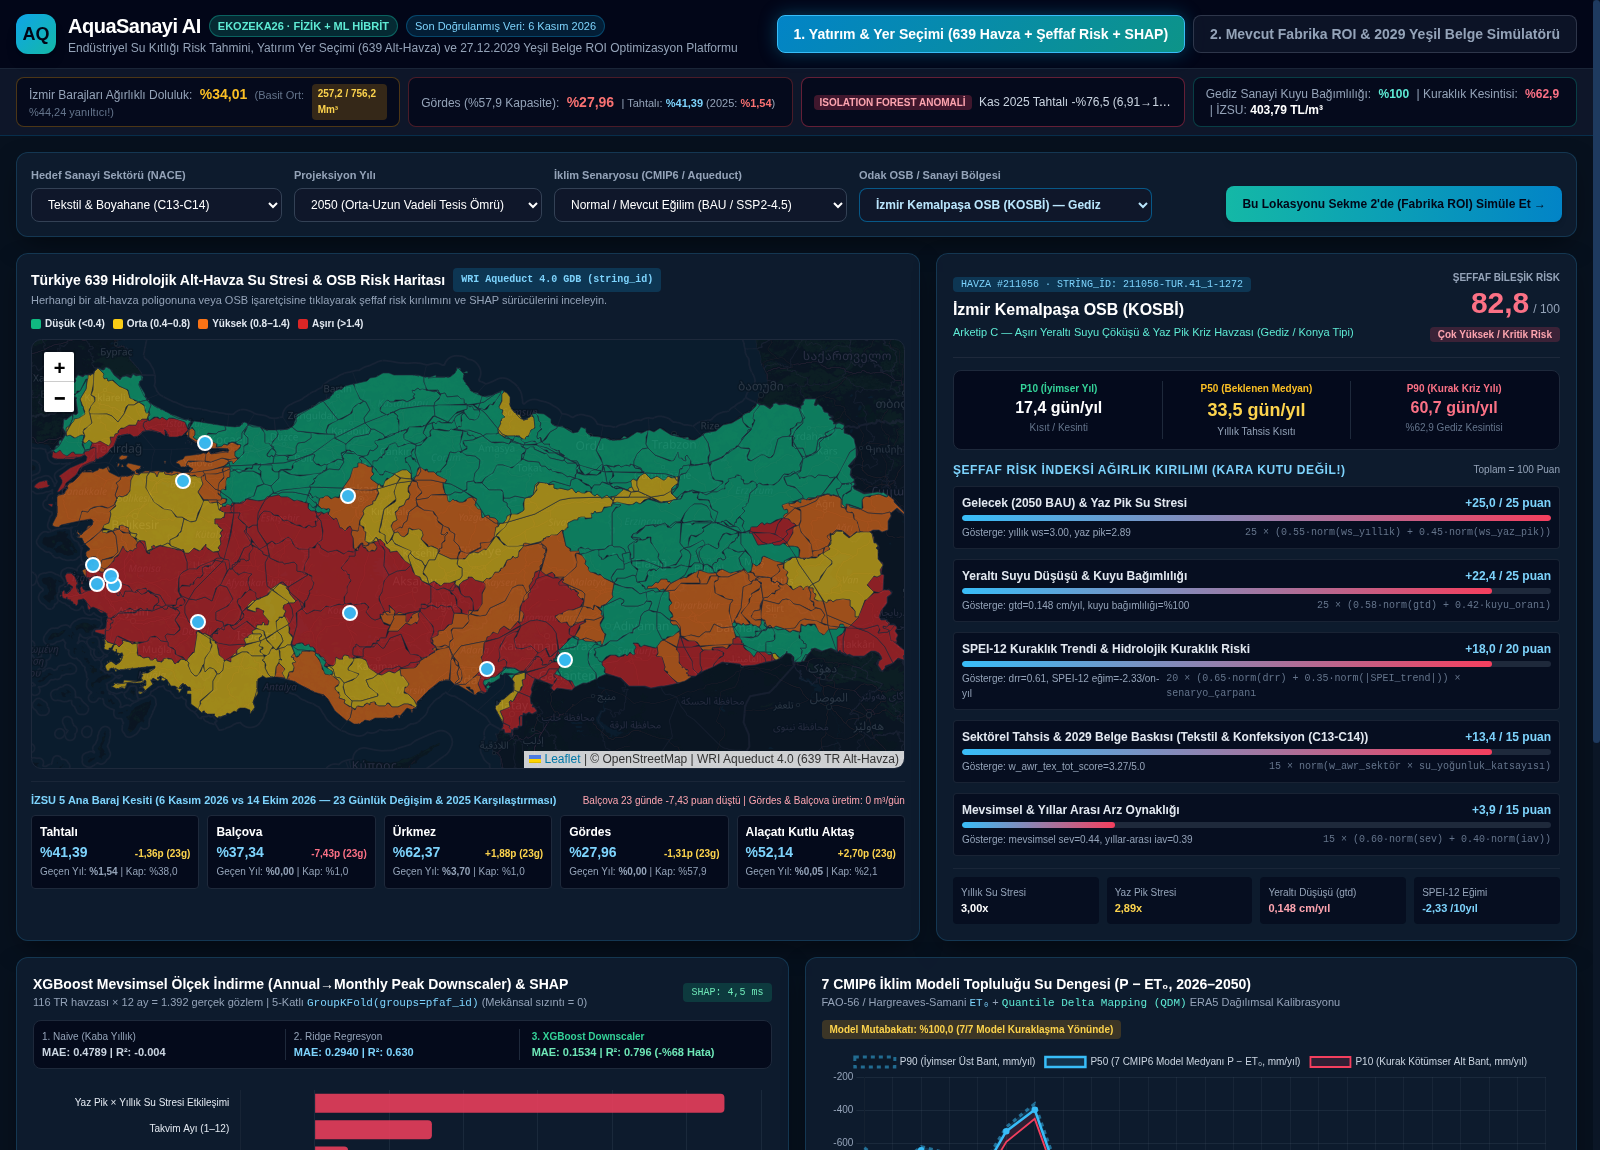
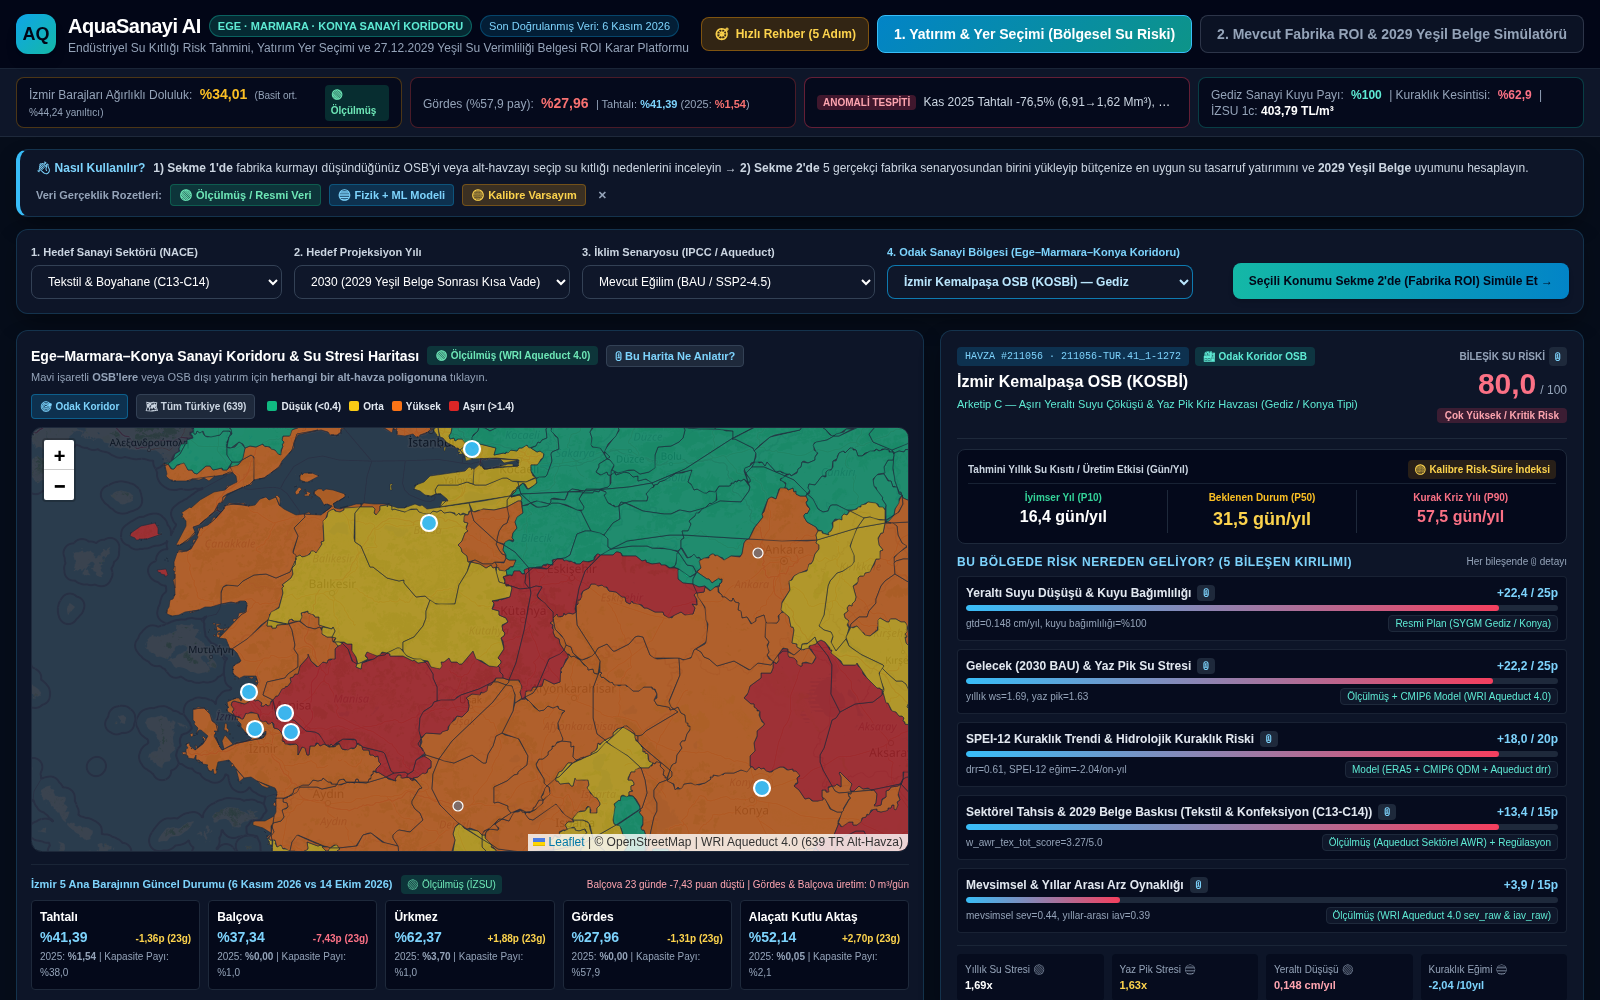
fix(api,ml): restore basin string_id in OSB rankings, isolate test metrics writes, refresh demo screenshots

diff --git a/src/ekozeka26/ml_engine.py b/src/ekozeka26/ml_engine.py
@@ -332,11 +332,14 @@ def fit_kmeans_basin_archetypes() -> dict[str, Any]:
     }
 
 
-def train_and_evaluate_models() -> dict[str, Any]:
+def train_and_evaluate_models(persist: bool = True) -> dict[str, Any]:
     """
     1.392 havza-ay satırı üzerinde 5-katlı `GroupKFold(n_splits=5, groups=pfaf_id)` ile
     Naive (Kaba Yıllık), Ridge Doğrusal Regresyon ve XGBoost Downscaler modellerini
     karşılaştırır, tam modeli kaydeder, SHAP değerlerini ve Gediz hidrolojik backtest'ini üretir.
+
+    `persist=False` yalnızca testlerde kullanılır: SHAP gecikmesi gibi ölçüm değerleri her
+    koşuda milisaniye düzeyinde değiştiği için repodaki `model_metrics.json` kirlenmez.
     """
     global _MODEL_CACHE, _EXPLAINER_CACHE
     PROCESSED_DIR.mkdir(parents=True, exist_ok=True)
@@ -465,9 +468,10 @@ def train_and_evaluate_models() -> dict[str, Any]:
         "kmeans_basin_archetypes": archetypes_res,
     }
 
-    (PROCESSED_DIR / "model_metrics.json").write_text(
-        json.dumps(metrics_payload, ensure_ascii=False, indent=2), encoding="utf-8"
-    )
+    if persist:
+        (PROCESSED_DIR / "model_metrics.json").write_text(
+            json.dumps(metrics_payload, ensure_ascii=False, indent=2), encoding="utf-8"
+        )
     return metrics_payload
 
 

diff --git a/src/ekozeka26/risk_index.py b/src/ekozeka26/risk_index.py
@@ -349,7 +349,12 @@ def compare_candidate_osbs(
             continue
         o_info = all_osbs[oid]
         sid = o_info["string_id"]
-        basin_row = df_basins.loc[sid].to_dict() if sid in df_basins.index else o_info
+        if sid in df_basins.index:
+            basin_row = df_basins.loc[sid].to_dict()
+            # set_index("string_id") sonrası to_dict() indeksi düşürür; kimliği geri ekle.
+            basin_row["string_id"] = sid
+        else:
+            basin_row = o_info
 
         c_proj = climate_meta.get(oid, {}).get("scenarios", {}).get(scenario.upper(), {})
         decadal_wb_trend = float(c_proj.get("decadal_trend_mm", -32.0))

diff --git a/src/ekozeka26/roi_optimizer.py b/src/ekozeka26/roi_optimizer.py
@@ -335,7 +335,12 @@ def optimize_facility_roi(
         gw_dep_input: float | None = None
     else:
         sid = osb_info["string_id"]
-        basin_row = df_basins.loc[sid].to_dict() if sid in df_basins.index else osb_info
+        if sid in df_basins.index:
+            basin_row = df_basins.loc[sid].to_dict()
+            # set_index("string_id") sonrası to_dict() indeksi düşürür; kimliği geri ekle.
+            basin_row["string_id"] = sid
+        else:
+            basin_row = osb_info
         gw_dep_input = float(osb_info["groundwater_dependency_pct"])
 
     sec_key = sector if sector in osb_meta["sector_defaults"] else "general"

diff --git a/tests/test_api.py b/tests/test_api.py
@@ -37,6 +37,9 @@ def test_all_rest_endpoints_200_ok_and_fast_fallback() -> None:
     c_data = r_comp.json()
     assert c_data["candidate_count"] >= 4
     assert "safest_osb" in c_data
+    # set_index("string_id") sonrası kimlik kaybı regresyonu: her satır dolu string_id taşımalı
+    assert all(row["string_id"] for row in c_data["rankings"])
+    assert c_data["safest_osb"]["string_id"]
 
     # 4. /api/predict-location (hem OSB hem deniz tıklaması koruması)
     r_pred = client.post(

diff --git a/tests/test_ml_engine.py b/tests/test_ml_engine.py
@@ -11,7 +11,7 @@ from ekozeka26.risk_index import find_basin_by_coords
 
 
 def test_xgboost_downscaler_groupkfold_and_backtest() -> None:
-    metrics = train_and_evaluate_models()
+    metrics = train_and_evaluate_models(persist=False)
     assert (PROCESSED_DIR / "xgb_downscaler.json").exists()
     assert (PROCESSED_DIR / "model_metrics.json").exists()
 

diff --git a/STATE.md b/STATE.md
@@ -14,8 +14,9 @@
   8. `llm_agent.py`: Gemini (`gemini-2.5-flash`) yapılandırılmış yönetici özeti + deterministik çevrimdışı yedek (offline fallback).
 
 ## Aktif Görev
-- **Faz: WBS-0 → WBS-8 tüm iş paketleri tamamlandı ve doğrulandı.**
+- **Faz: WBS-0 → WBS-9 tüm iş paketleri tamamlandı ve doğrulandı.**
 - Uygulama `bash scripts/run.sh` (veya `uv run uvicorn ekozeka26.app:app --host 127.0.0.1 --port 8000`) ile canlı sunuma hazırdır.
+- **Son doğrulama (7 Kasım 2026):** `uv run pytest -q` → **19 passed**; canlı UI tarayıcı testinde **0 konsol hatası / 0 başarısız ağ isteği**, masaüstü (1600×1000) ve mobil (420 px) görünümde yatay taşma yok.
 
 ## Tamamlanan Adımlar
 - [x] Proje iskeleti (`uv`, `pyproject.toml`, `src/ekozeka26/`, `.gitignore`)
@@ -28,6 +29,8 @@
 - [x] CarbonEmit bağımlılığı kaldırıldı; kendi açık tesis şeması + örnek dosya + JSON/CSV dışa aktarım kararı alındı
 - [x] Yapay zeka çekirdeği **fizik-öncelikli + ML destekli** hibrite geçirildi (şeffaf indeks + XGBoost yanlılık düzeltme + KMeans + Isolation Forest)
 - [x] WBS 9 iş paketine genişletildi (veri snapshot, backtest, `run.sh`/`.env.example`, prova + yedek video eklendi)
+- [x] WBS-9 tamamlandı: veri şeffaflık rozetleri, 5 kök-neden senaryosu, kriter tabanlı 2029 belgesi, OSB dışı havza düzeltmesi, yerel `vendor/` varlıkları ve 5 adımlı rehber tur
+- [x] WBS-9 son doğrulaması: `/api/osb-compare` satırlarında kaybolan `string_id` kimliği düzeltildi (regresyon testi eklendi); `train_and_evaluate_models(persist=False)` ile testlerin `model_metrics.json` üzerinde gürültü üretmesi engellendi; `docs/demo/` ekran görüntüleri güncel UI ile yenilendi
 
 ## Proje Yönetimi İlerleme Şablonu (WBS & Definition of Done)
 > `build` oturumunda her görev tamamlandığında `Durum` sütunu `[x]` yapılacak, `git commit` atılacak ve yeni sayılar `SUNUM.md`'ye işlenecektir.
